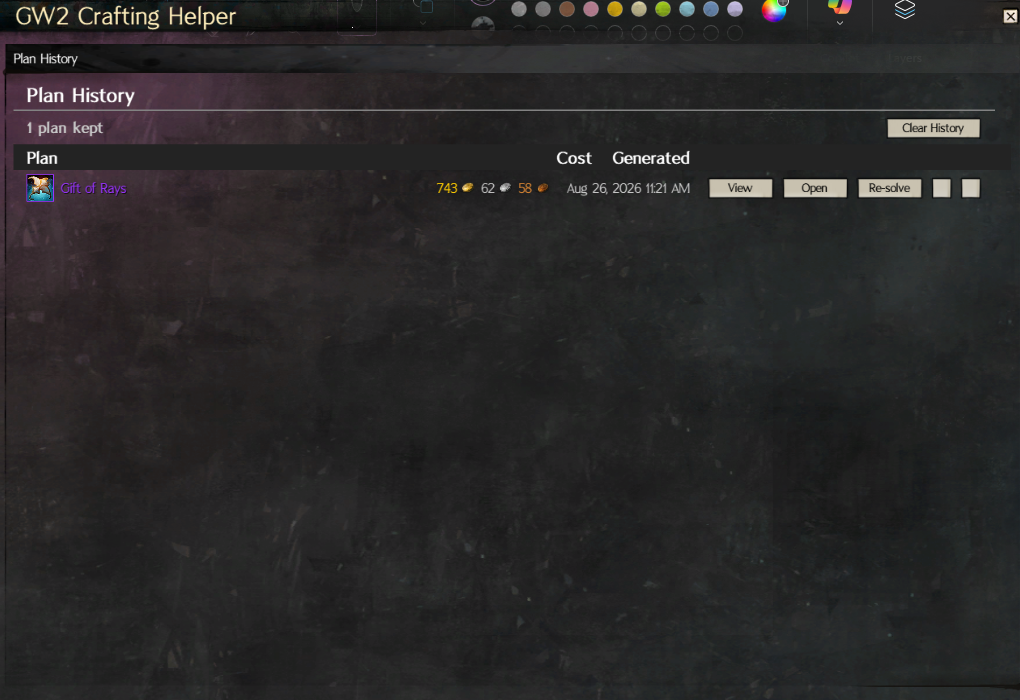
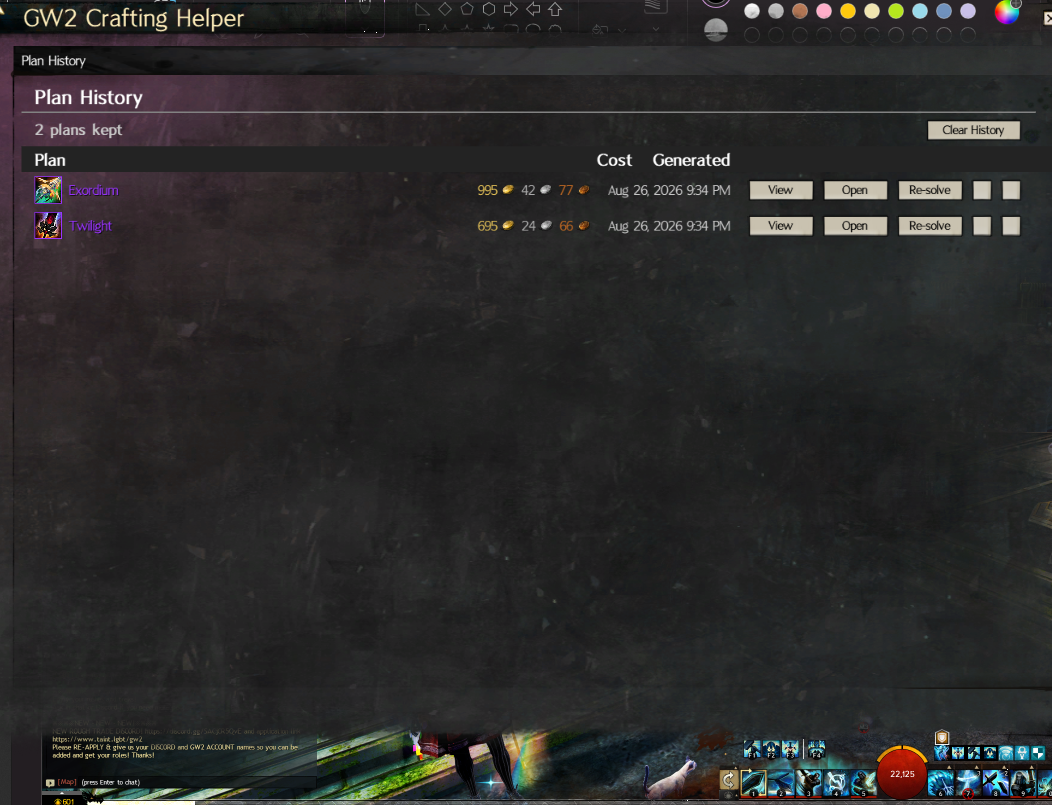
docs: retake every screenshot over game scenery with crafted legendaries
Addresses all four review comments: shots now sit over a real game scene
(the translucency shows the game world and its UI, not Paint chrome);
the demo items are Exordium and Twilight - crafted legendaries with deep
trees - instead of the purchased Gift of Rays; the Ranker shot stays out
pending its design review; and the tooltip image is withdrawn rather
than shipped showing the far-placement bug (fixed in PR #197) - it
returns with a capture of the corrected cursor-adjacent placement. The
shopping-list shot now shows five source badges (VENDOR, WvW, SALVAGE,
TP, EXPLORE) and rarity-colored names.

Claude-Session: https://claude.ai/code/session_01GZ3bu5NxGz1PByEuBqjw38

diff --git a/README.md b/README.md
@@ -85,10 +85,6 @@ saved plan exactly as it was, or re-solve it at today's prices:
 
 ![Plan History with View, Open and Re-solve](docs/images/plan-history.png)
 
-Item tooltips mirror the in-game look, measured from live captures:
-
-![GW2-authentic item tooltip](docs/images/item-tooltip.png)
-
 Used Materials and Shopping List sections (item names colored by GW2
 rarity) with vendor-tagged shopping rows:
 
